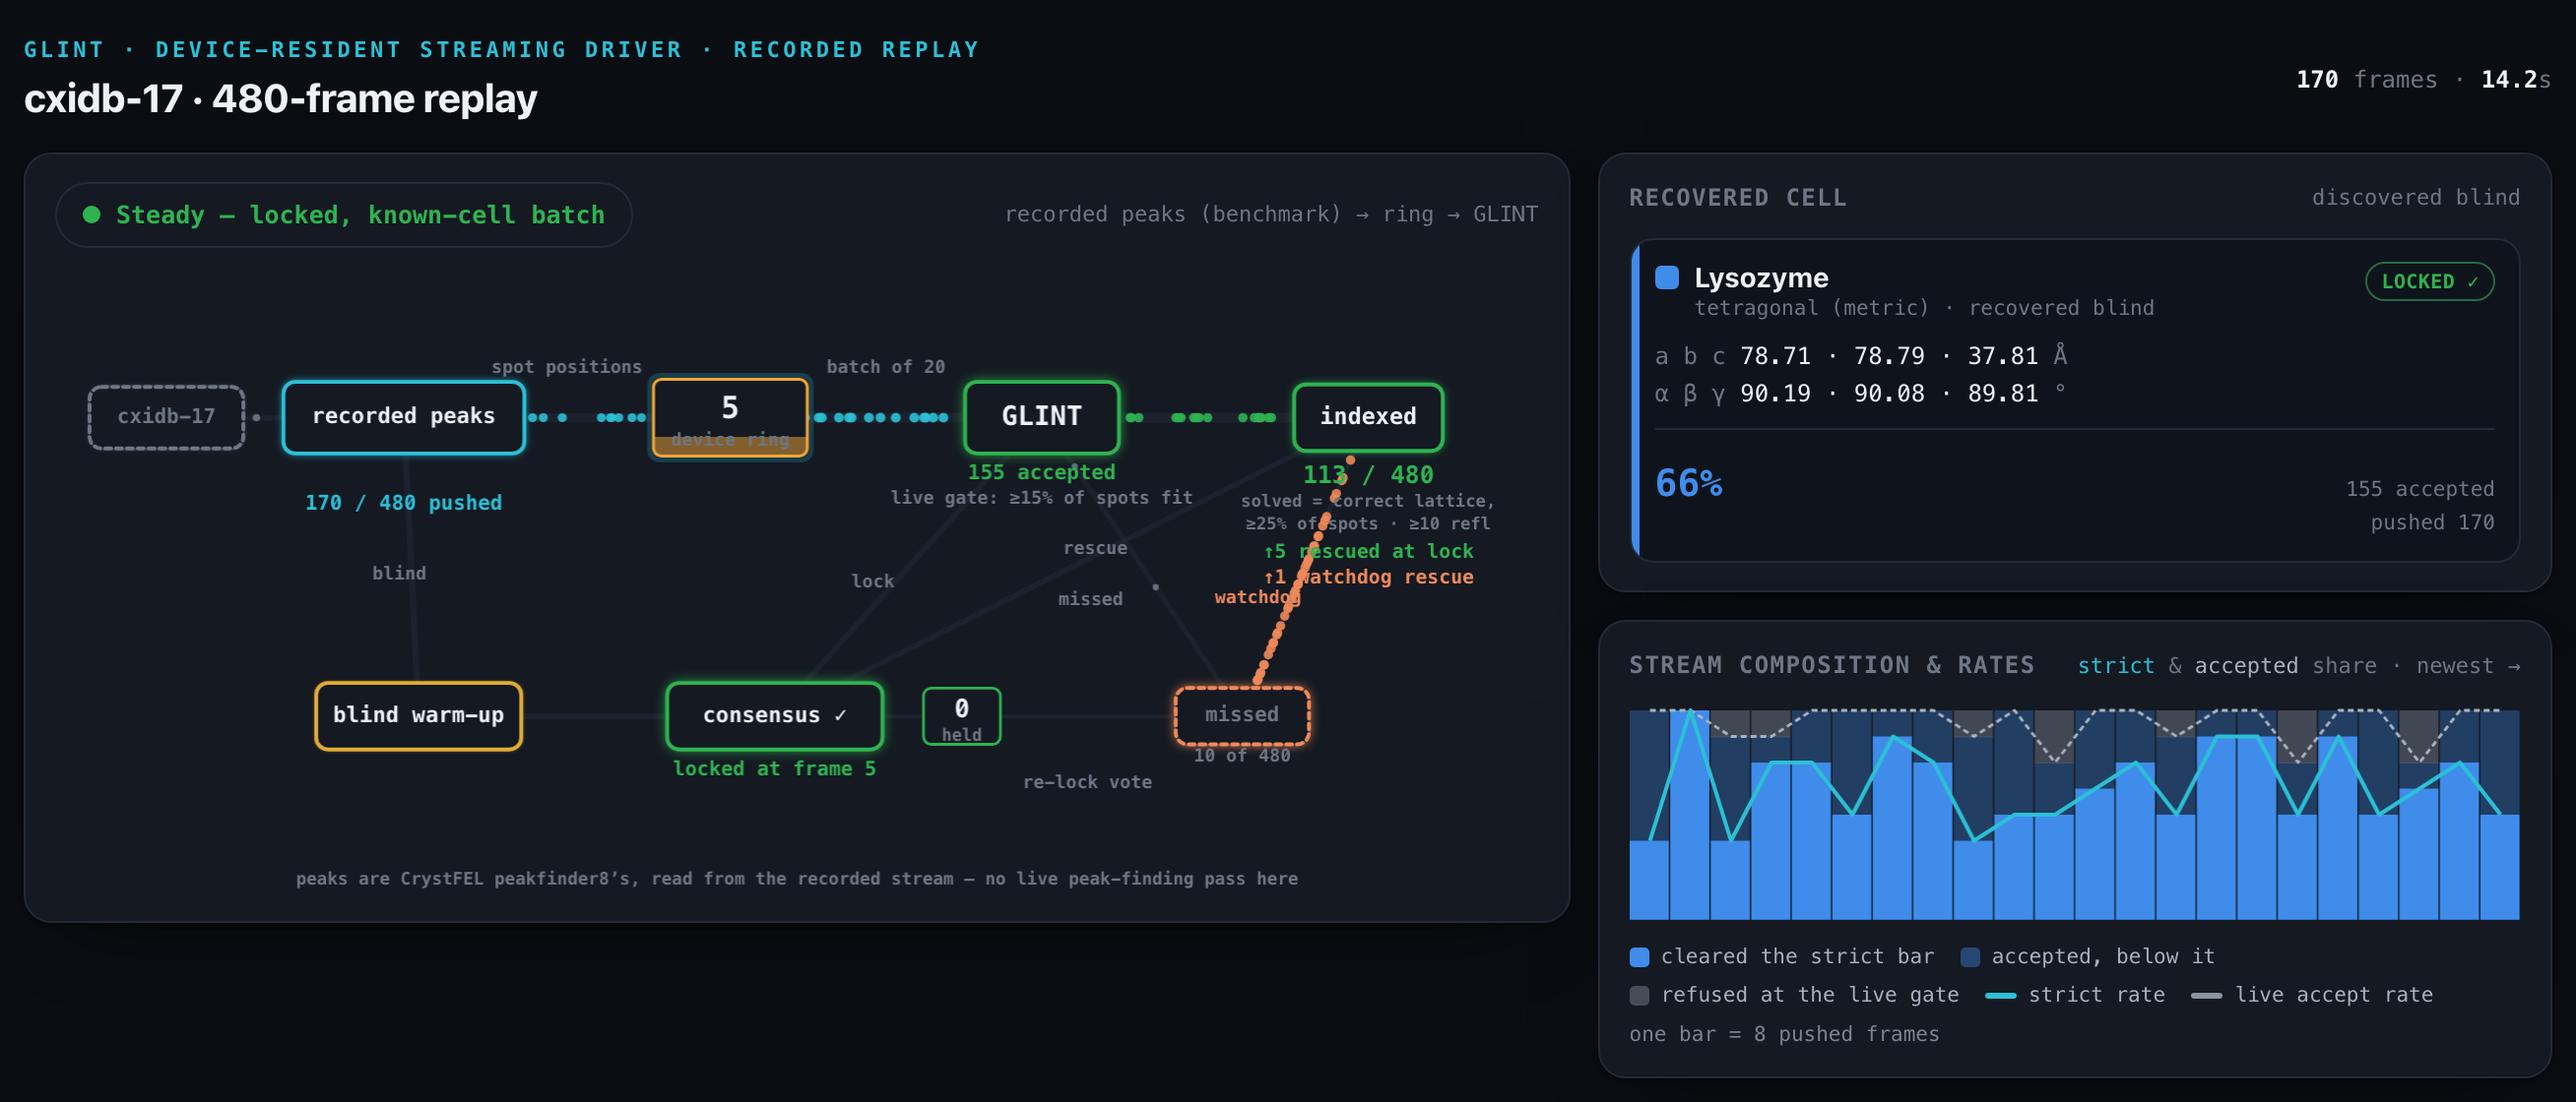
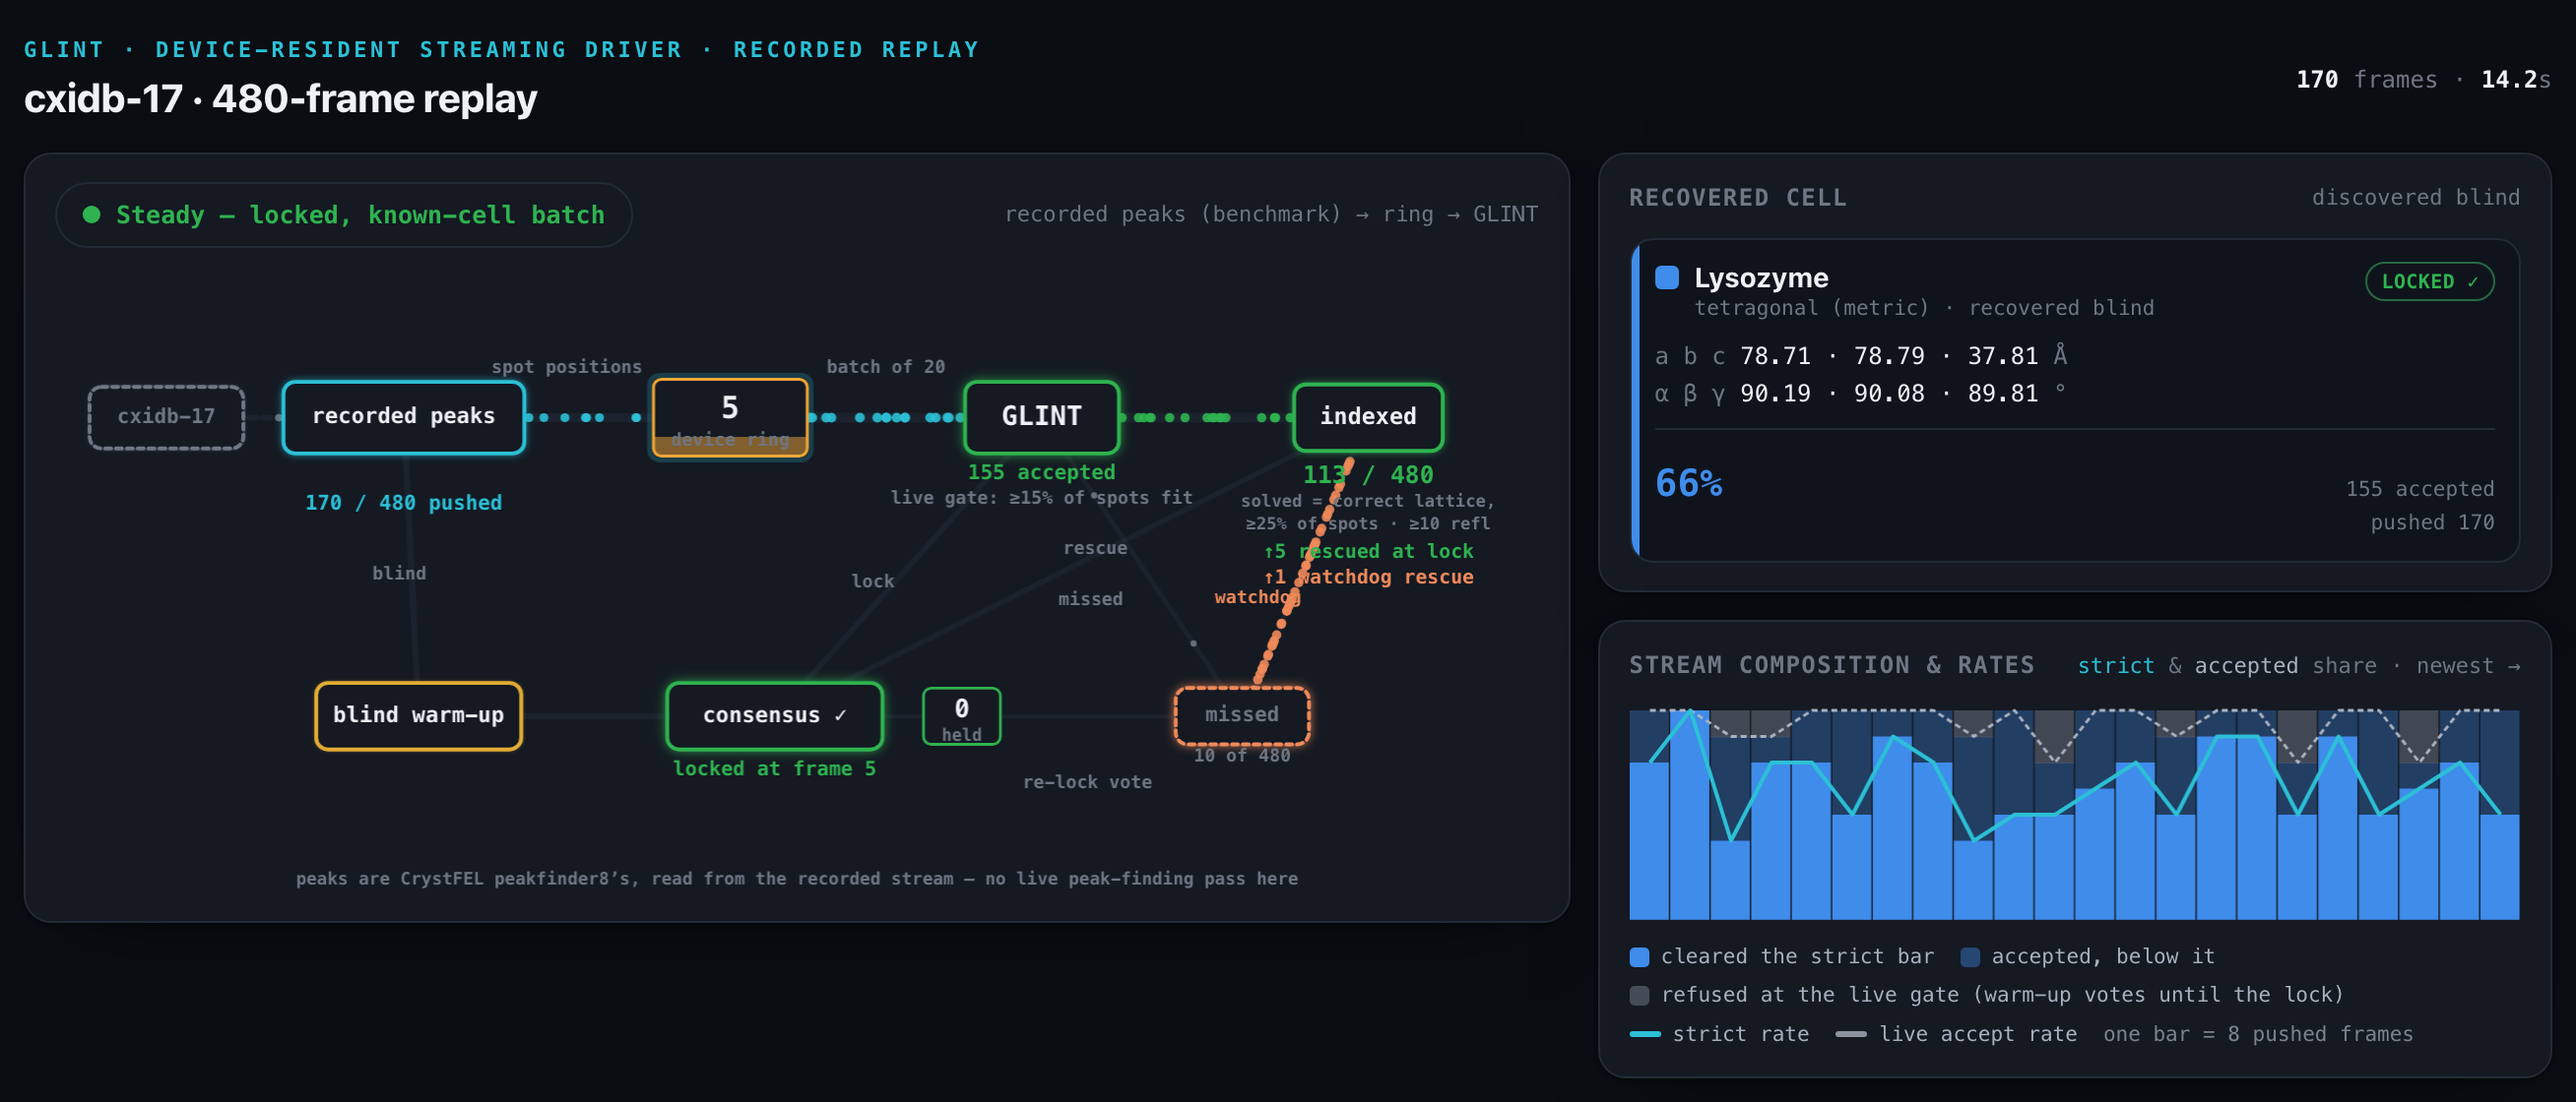
docs: the 480-frame replay page draws its rescued warm-up frames as attributed (same fix as #202); README GIFs regenerated (#205)
* docs/streaming_replay: the 480-frame page draws its rescued warm-up frames as attributed (same fix as the two-species page)

build_cxidb480_monitor.py binned all five warm-up records as "accepted, below the bar" under the cell,
although the lock's rescue put three of them over the strict bar. Warm-up votes are now grey until the
lock, and the lock re-colours each from its record's own `ok` (scored against the locked cell), so the
first composition bar reads 3 solid + 2 faint and the bars end at the driver's attribution: 331 solid =
strict_total, 331 + 125 = 451 live + 5 rescued, 24 grey = the live gate's refusals (checked by running the
built page's engine in JavaScriptCore over all 480 records). The build now refuses a trace in which not
every warm-up frame was rescued (the player's assumption) or whose lock record disagrees with the warm-up
records' ok flags. Doc: the event table's frame-5 row, the frame-5 filmstrip row, the GIF sizes.

* docs/media: regenerate the 480-frame GIFs and six stills from the corrected page

Same recipe as glint#198 (481 frames per theme, 0 blank, 12 fps, 900 px, crop 6,0,1314,560 / 563):
dark 2.52 MB, light 2.30 MB. Counters unchanged (trace readouts); the first composition bar now shows
the three rescued warm-up frames that clear the strict bar as solid.

---------

diff --git a/docs/streaming_replay/glint_streaming_cxidb480_real.html b/docs/streaming_replay/glint_streaming_cxidb480_real.html
@@ -364,7 +364,7 @@
       ring:0, wbuf:0, locked:false, support:0, lead:0, lockFrame:0,
       idxR:0, okR:0, phase:'warmup', phaseHold:0, rescueFlash:0, flushFlash:0, batchFlash:0,
       wdog:0, relocks:0, relockFrame:0, wdogFlash:0, relockFlash:0,
-      bins:[], curBin:freshBin(), histIdx:[], histOk:[], histRing:[] };
+      bins:[], binsDropped:0, curBin:freshBin(), histIdx:[], histOk:[], histRing:[] };
   }
   fresh();
   function resetForLoop(){ const t=S.t; fresh(); S.t=t; }
@@ -372,10 +372,18 @@
   // Composition bins. The categories are the driver's OWN three outcomes per pushed frame:
   //   idx  = cleared the strict research bar (>=25% of spots AND >=10 reflections, right cell)
   //   buf  = accepted at the driver's live gate but below that bar
-  //   gen  = refused at the live gate (min_inlier_frac 0.15) -- dropped, and counted
+  //   gen  = refused at the live gate (min_inlier_frac 0.15) -- dropped, and counted; also a
+  //          warm-up vote until the lock decides it (see amend below)
   function binAdd(cat){ const b=S.curBin;
     if(cat==='gen')b.gen++; else if(cat==='idx')b.idx[0]++; else b.buf[0]++;
-    if(++b.total>=BIN){ S.bins.push(b); if(S.bins.length>200)S.bins.shift(); S.curBin=freshBin(); } }
+    if(++b.total>=BIN){ S.bins.push(b); if(S.bins.length>200){S.bins.shift(); S.binsDropped++;} S.curBin=freshBin(); } }
+  // The warm-up rescue is retroactive: at the lock the driver re-indexes the frames it spent on
+  // discovery, and each one is then attributed (strict or below the bar) exactly as a live frame
+  // would be. Move trace record j's unit from grey to the outcome the rescue gave it, in the bin it
+  // fell in (record j is one unit of bin floor(j/BIN): every record adds exactly one unit to one bin).
+  function amend(j,ok){ const bi=Math.floor(j/BIN)-S.binsDropped; if(bi<0) return;
+    const b = bi===S.bins.length ? S.curBin : S.bins[bi]; if(!b||b.gen<=0) return;
+    b.gen--; if(ok) b.idx[0]++; else b.buf[0]++; }
   function ema(k,x){ const a=0.06; S[k]+=(x-S[k])*a; }
 
   function playFrame(){
@@ -385,7 +393,7 @@
       // Warm-up: the frame casts a blind consensus vote and is HELD. It is not indexed yet, so it
       // scores nothing yet -- the credit lands at the lock, when the rescue re-indexes it.
       S.warmup++; S.wbuf=r.buf; S.support=r.sup; S.lead=r.lead||0;
-      S.phase='warmup'; binAdd('buf');
+      S.phase='warmup'; binAdd('gen');            // grey until the lock's rescue decides it
       ema('idxR',0); ema('okR',0);
     } else {
       S.ring=r.buf;
@@ -396,6 +404,9 @@
     if(r.lock>=0){
       S.locked=true; S.lockFrame=S.frames; S.support=r.sup;
       S.rescued+=r.resc; S.strict+=r.resc_ok; S.wbuf=0;
+      // every warm-up frame of this run was rescued (n_warmup_rescued == n_warmup, asserted at build
+      // time), so each warm-up record's own `ok` -- scored against the locked cell -- is its outcome
+      for(let j=0;j<S.tf;j++) if(TRACE[j].wu) amend(j, TRACE[j].ok);
       S.rescueFlash=1; S.phase='rescuing'; S.phaseHold=Math.round(PLAY_FPS*1.4);
     }
     // The watchdog. Both of these are counters the 120-frame replay could not draw, because on
@@ -450,8 +461,9 @@
   function drawStream(){
     // One bar per BIN pushed frames, normalised to that bin's frame count. Bottom-up the stack is
     // the driver's own three outcomes: cleared the strict bar (solid), accepted at the live gate but
-    // below it (faint), refused at the live gate (grey). The two envelopes are the two rates those
-    // categories define, so the strict line always nests under the accept line by construction.
+    // below it (faint), refused at the live gate (grey; a warm-up vote is grey until the lock's
+    // rescue re-colours it). The two envelopes are the two rates those categories define, so the
+    // strict line always nests under the accept line by construction.
     const [w,h]=wf._d||fit(wf); wfx.clearRect(0,0,w,h);
     const arr = S.curBin.total>0 ? S.bins.concat([S.curBin]) : S.bins;
     const n=arr.length; if(!n) return;
@@ -499,7 +511,7 @@
     const add=html=>{const k=document.createElement('span');k.className='k';k.innerHTML=html;L.appendChild(k);};
     add(`<span class="sw" style="background:${col('--s1')}"></span>cleared the strict bar`);
     add(`<span class="sw" style="background:${col('--s1')};opacity:.4"></span>accepted, below it`);
-    add(`<span class="sw" style="background:${col('--muted')};opacity:.55"></span>refused at the live gate`);
+    add(`<span class="sw" style="background:${col('--muted')};opacity:.55"></span>refused at the live gate (warm-up votes until the lock)`);
     add(`<span class="swl" style="background:${col('--accent')}"></span>strict rate`);
     add(`<span class="swl" style="background:${col('--ink2')};opacity:.8"></span>live accept rate`);
     const note=document.createElement('span'); note.className='k'; note.style.opacity='.7';

diff --git a/docs/streaming_replay/build_cxidb480_monitor.py b/docs/streaming_replay/build_cxidb480_monitor.py
@@ -115,7 +115,7 @@ def engine(tr):
       ring:0, wbuf:0, locked:false, support:0, lead:0, lockFrame:0,
       idxR:0, okR:0, phase:'warmup', phaseHold:0, rescueFlash:0, flushFlash:0, batchFlash:0,
       wdog:0, relocks:0, relockFrame:0, wdogFlash:0, relockFlash:0,
-      bins:[], curBin:freshBin(), histIdx:[], histOk:[], histRing:[] }};
+      bins:[], binsDropped:0, curBin:freshBin(), histIdx:[], histOk:[], histRing:[] }};
   }}
   fresh();
   function resetForLoop(){{ const t=S.t; fresh(); S.t=t; }}
@@ -123,10 +123,18 @@ def engine(tr):
   // Composition bins. The categories are the driver's OWN three outcomes per pushed frame:
   //   idx  = cleared the strict research bar (>=25% of spots AND >=10 reflections, right cell)
   //   buf  = accepted at the driver's live gate but below that bar
-  //   gen  = refused at the live gate (min_inlier_frac 0.15) -- dropped, and counted
+  //   gen  = refused at the live gate (min_inlier_frac 0.15) -- dropped, and counted; also a
+  //          warm-up vote until the lock decides it (see amend below)
   function binAdd(cat){{ const b=S.curBin;
     if(cat==='gen')b.gen++; else if(cat==='idx')b.idx[0]++; else b.buf[0]++;
-    if(++b.total>=BIN){{ S.bins.push(b); if(S.bins.length>200)S.bins.shift(); S.curBin=freshBin(); }} }}
+    if(++b.total>=BIN){{ S.bins.push(b); if(S.bins.length>200){{S.bins.shift(); S.binsDropped++;}} S.curBin=freshBin(); }} }}
+  // The warm-up rescue is retroactive: at the lock the driver re-indexes the frames it spent on
+  // discovery, and each one is then attributed (strict or below the bar) exactly as a live frame
+  // would be. Move trace record j's unit from grey to the outcome the rescue gave it, in the bin it
+  // fell in (record j is one unit of bin floor(j/BIN): every record adds exactly one unit to one bin).
+  function amend(j,ok){{ const bi=Math.floor(j/BIN)-S.binsDropped; if(bi<0) return;
+    const b = bi===S.bins.length ? S.curBin : S.bins[bi]; if(!b||b.gen<=0) return;
+    b.gen--; if(ok) b.idx[0]++; else b.buf[0]++; }}
   function ema(k,x){{ const a=0.06; S[k]+=(x-S[k])*a; }}
 
   function playFrame(){{
@@ -136,7 +144,7 @@ def engine(tr):
       // Warm-up: the frame casts a blind consensus vote and is HELD. It is not indexed yet, so it
       // scores nothing yet -- the credit lands at the lock, when the rescue re-indexes it.
       S.warmup++; S.wbuf=r.buf; S.support=r.sup; S.lead=r.lead||0;
-      S.phase='warmup'; binAdd('buf');
+      S.phase='warmup'; binAdd('gen');            // grey until the lock's rescue decides it
       ema('idxR',0); ema('okR',0);
     }} else {{
       S.ring=r.buf;
@@ -147,6 +155,9 @@ def engine(tr):
     if(r.lock>=0){{
       S.locked=true; S.lockFrame=S.frames; S.support=r.sup;
       S.rescued+=r.resc; S.strict+=r.resc_ok; S.wbuf=0;
+      // every warm-up frame of this run was rescued (n_warmup_rescued == n_warmup, asserted at build
+      // time), so each warm-up record's own `ok` -- scored against the locked cell -- is its outcome
+      for(let j=0;j<S.tf;j++) if(TRACE[j].wu) amend(j, TRACE[j].ok);
       S.rescueFlash=1; S.phase='rescuing'; S.phaseHold=Math.round(PLAY_FPS*1.4);
     }}
     // The watchdog. Both of these are counters the 120-frame replay could not draw, because on
@@ -367,8 +378,9 @@ RENDER_CELLS = r"""  function renderCells(){
 DRAW_STREAM = r"""  function drawStream(){
     // One bar per BIN pushed frames, normalised to that bin's frame count. Bottom-up the stack is
     // the driver's own three outcomes: cleared the strict bar (solid), accepted at the live gate but
-    // below it (faint), refused at the live gate (grey). The two envelopes are the two rates those
-    // categories define, so the strict line always nests under the accept line by construction.
+    // below it (faint), refused at the live gate (grey; a warm-up vote is grey until the lock's
+    // rescue re-colours it). The two envelopes are the two rates those categories define, so the
+    // strict line always nests under the accept line by construction.
     const [w,h]=wf._d||fit(wf); wfx.clearRect(0,0,w,h);
     const arr = S.curBin.total>0 ? S.bins.concat([S.curBin]) : S.bins;
     const n=arr.length; if(!n) return;
@@ -398,7 +410,7 @@ BUILD_LEGEND = r"""  function buildLegend(){
     const add=html=>{const k=document.createElement('span');k.className='k';k.innerHTML=html;L.appendChild(k);};
     add(`<span class="sw" style="background:${col('--s1')}"></span>cleared the strict bar`);
     add(`<span class="sw" style="background:${col('--s1')};opacity:.4"></span>accepted, below it`);
-    add(`<span class="sw" style="background:${col('--muted')};opacity:.55"></span>refused at the live gate`);
+    add(`<span class="sw" style="background:${col('--muted')};opacity:.55"></span>refused at the live gate (warm-up votes until the lock)`);
     add(`<span class="swl" style="background:${col('--accent')}"></span>strict rate`);
     add(`<span class="swl" style="background:${col('--ink2')};opacity:.8"></span>live accept rate`);
     const note=document.createElement('span'); note.className='k'; note.style.opacity='.7';
@@ -590,6 +602,17 @@ def main(trace_path):
     if (tr["n_watchdog_rescued"], tr["n_relock"]) != (6, 1):
         raise SystemExit(f"refusing to build: watchdog fired {tr['n_watchdog_rescued']} rescues / "
                          f"{tr['n_relock']} re-locks, expected 6 / 1 (the paper's SI counts)")
+    # The player re-colours every warm-up record at the lock from its own `ok` (scored against the
+    # locked cell). That is only the driver's attribution if every warm-up frame was rescued, and the
+    # strict ones must add up to what the lock record carries.
+    wu = [r for r in tr["trace"] if r["wu"]]
+    lock = [r for r in tr["trace"] if r["lock"] >= 0]
+    if tr["n_warmup_rescued"] != tr["n_warmup"] or len(wu) != tr["n_warmup"]:
+        raise SystemExit(f"refusing to build: {tr['n_warmup_rescued']} of {tr['n_warmup']} warm-up frames rescued "
+                         f"({len(wu)} warm-up records) -- the player assumes every warm-up frame is rescued")
+    if len(lock) != 1 or lock[0]["resc"] != tr["n_warmup"] or lock[0]["resc_ok"] != sum(r["ok"] for r in wu) \
+            or tr["strict_warmup"] != lock[0]["resc_ok"]:
+        raise SystemExit("refusing to build: the lock record's rescue counts disagree with the warm-up records' ok flags")
 
     lines = open(TEMPLATE).read().split("\n")
     start = next(i for i, l in enumerate(lines) if l.strip().startswith("const SPECIES=["))

diff --git a/docs/streaming_replay.md b/docs/streaming_replay.md
@@ -55,7 +55,7 @@ Events, verified against the trace (`python3 -c "import json; tr=json.load(open(
 
 | On-screen frame | Trace record (0-based) | What happens |
 |---|---|---|
-| 5 | 4 | `lock=0`, `sup=4`, `resc=5`, `resc_ok=3`: consensus locks; the 5 warm-up frames are re-indexed, 3 clear the strict bar. Strict count 3 / 480. |
+| 5 | 4 | `lock=0`, `sup=4`, `resc=5`, `resc_ok=3`: consensus locks; the 5 warm-up frames are re-indexed, 3 clear the strict bar. Strict count 3 / 480. In the composition chart the warm-up votes are grey until this frame; the lock re-colours them from each record's own `ok` — 3 solid, 2 faint — so the bars end at the driver's attribution (331 solid, 125 faint, 24 grey over the run). |
 | 170, 174, 183, 222, 236, 325 | 169, 173, 182, 221, 235, 324 | `wresc=1`: the six watchdog rescues — frames the batch pass missed, blind-solved one at a time and accepted after all. |
 | 365 | 364 | `relock=1` on a 20-frame flush: the adaptive re-lock **adds** a second cell to the active set. The trace header records this as `relock_frame: 364` — the 0-based record — so "near event 364" is the safe phrasing; the on-screen badge says "re-lock ×1 at frame 365" because the clock is 1-based. The badge holds amber for 2 s of playback (through frame 389). |
 | 480 | 479 | Last flush (15 frames). Strict count **331 / 480**, accepted 451, refused 24, ring 0. |
@@ -140,7 +140,7 @@ Capture recipe (macOS, Google Chrome 152 headless, Pillow 10.4; no ffmpeg):
    900 px wide (Lanczos) and write one GIF with a **single global 256-colour median-cut palette**
    built from a mosaic of 9 frames sampled evenly across the run, no dither, `optimize=True`,
    `disposal=1`, 83 ms per frame requested → 80 ms stored (GIF delays are centiseconds), `loop=0`.
-   481 frames play in 38.5 s. Sizes: dark 2.54 MB (900×385), light 2.32 MB (900×387).
+   481 frames play in 38.5 s. Sizes: dark 2.52 MB (900×385), light 2.30 MB (900×387).
 4. The stills below are the same page at `--force-device-scale-factor=2` (2640×1792 raw, same crop
    box doubled → 2616×1120 / 2616×1126), one Chrome launch each.
 
@@ -149,7 +149,7 @@ Capture recipe (macOS, Google Chrome 152 headless, Pillow 10.4; no ffmpeg):
 | Still | Frame | What it shows |
 |---|---|---|
 | ![frame 0](media/stills/dark_f0000.png) | 0 | Nothing pushed yet: "0 frames · 0.0 s", badge amber "Blind warm-up — no cell yet", cell card "Discovering…", consensus support 0/4, 0 / 480 pushed, indexed 0 / 480. |
-| ![frame 5](media/stills/dark_f0005.png) | 5 | The lock: "5 frames · 0.4 s", badge green "Locked + rescuing warm-up frames", "locked at frame 5", "↑5 rescued at lock", 0 accepted yet at the live gate, cell card LOCKED with the measured lysozyme cell; indexed 3 / 480 (the 3 rescued warm-up frames that clear the strict bar). |
+| ![frame 5](media/stills/dark_f0005.png) | 5 | The lock: "5 frames · 0.4 s", badge green "Locked + rescuing warm-up frames", "locked at frame 5", "↑5 rescued at lock", 0 accepted yet at the live gate, cell card LOCKED with the measured lysozyme cell; the first composition bar is 3 solid + 2 faint (the rescued votes, by their strict verdict); indexed 3 / 480 (the 3 rescued warm-up frames that clear the strict bar). |
 | ![frame 170](media/stills/dark_f0170.png) | 170 | Steady state with the first watchdog rescue: "170 frames · 14.2 s", badge green "Steady — locked, known-cell batch", ring 5, 155 accepted, "↑1 watchdog rescue" flashing on the missed → indexed edge, 10 of 480 missed; indexed 113 / 480 (66%). |
 | ![frame 365](media/stills/dark_f0365.png) | 365 | The re-lock, near event 364: "365 frames · 30.4 s", badge amber "Watchdog re-lock — second cell added", "re-lock ×1 at frame 365 · 2nd cell", consensus node highlighted with re-lock vote dots, 338 accepted, 22 of 480 missed; indexed 247 / 480 (68%). The re-lock itself adds nothing to the count. |
 | ![frame 370](media/stills/dark_f0370.png) | 370 | Five frames later the amber hold persists (it lasts through frame 389): "370 frames · 30.9 s", ring 5, 343 accepted, "↑6 watchdog rescues" now all in; indexed 250 / 480 (68%). |
